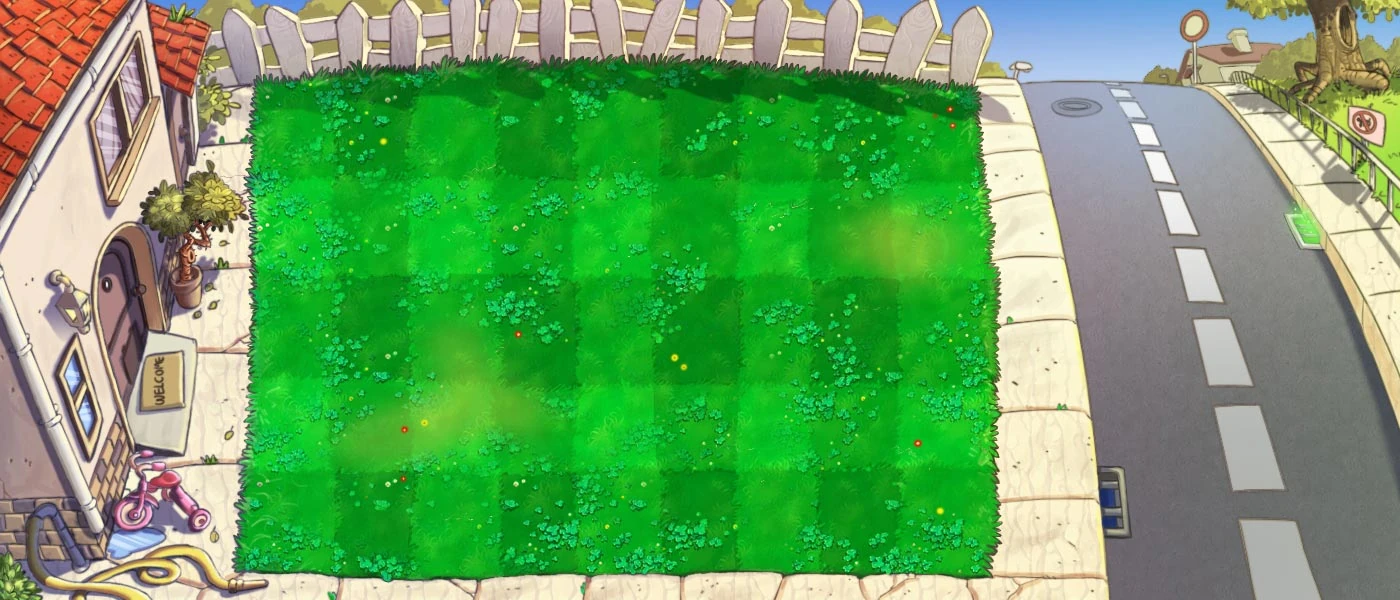
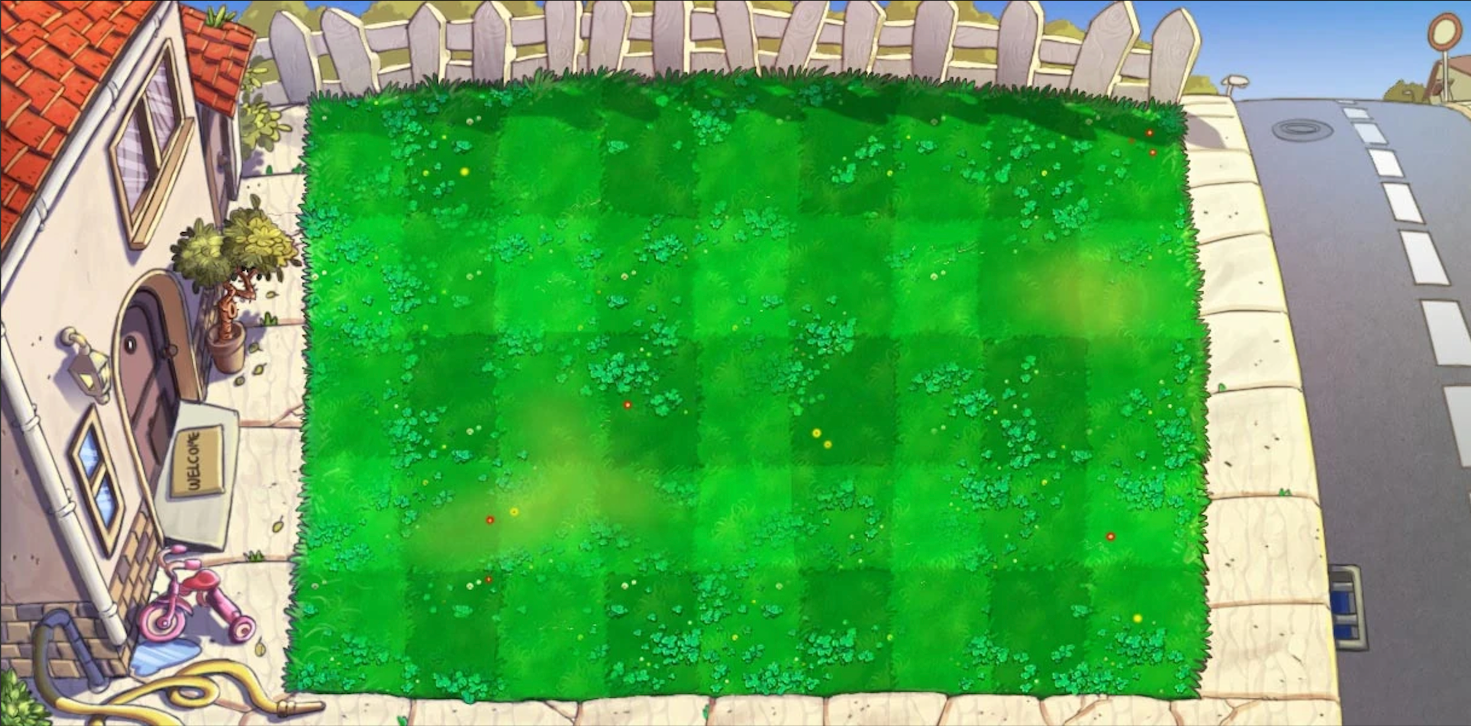
Update game dimensions, adjust zombie spawn positions, and modify game speed logic

diff --git a/final_project.py b/final_project.py
@@ -4,7 +4,7 @@ import random
 
 pygame.init()
 
-WIDTH, HEIGHT = 1400, 600
+WIDTH, HEIGHT = 1471, 726
 screen = pygame.display.set_mode((WIDTH, HEIGHT))
 pygame.display.set_caption("Plant vs Zombies")
 clock = pygame.time.Clock()
@@ -12,12 +12,17 @@ clock = pygame.time.Clock()
 background = pygame.image.load("background.png")
 background = pygame.transform.scale(background, (WIDTH, HEIGHT))
 
-GREEN = (0, 200, 0)
+GREEN = (0, 200, 100)
 BROWN = (139, 69, 19)
 RED = (255, 0, 0)
 
+GAME_SPEED = 5 # 1-5
+
 # Position array
-zombie_positions_y = [105, 200, 310, 395, 490]
+zombie_positions_y = [130, 245, 370, 480, 600]
+
+# Speed array
+game_speed = [0, 1500, 1200, 1000, 700, 500]
 
 class Plant(pygame.sprite.Sprite):
     def __init__(self, x, y):
@@ -65,7 +70,7 @@ plants = pygame.sprite.Group()
 zombies = pygame.sprite.Group()
 bullets = pygame.sprite.Group()
 
-spawn_timer = 0
+spawn_timer = 750
 while True:
     for event in pygame.event.get():
         if event.type == pygame.QUIT:
@@ -74,16 +79,17 @@ while True:
 
         if event.type == pygame.MOUSEBUTTONDOWN and event.button == 1:
             x, y = event.pos
-            plant = Plant(x - x % 50, y - y % 50)
+            # plant = Plant(x - x % 50, y - y % 50)
+            plant = Plant(350, 130)
             plants.add(plant)
 
     spawn_timer += 1
-    if spawn_timer > 120:
+    if spawn_timer > game_speed[GAME_SPEED]:
         zombie_x = WIDTH+5
         zombie_y = zombie_positions_y[random.randint(0, 4)]
         zombie = Zombie(zombie_x, zombie_y)
         zombies.add(zombie)
-        spawn_timer = 0
+        spawn_timer = random.randint(0, game_speed[GAME_SPEED]-100)
 
     plants.update()
     zombies.update()
